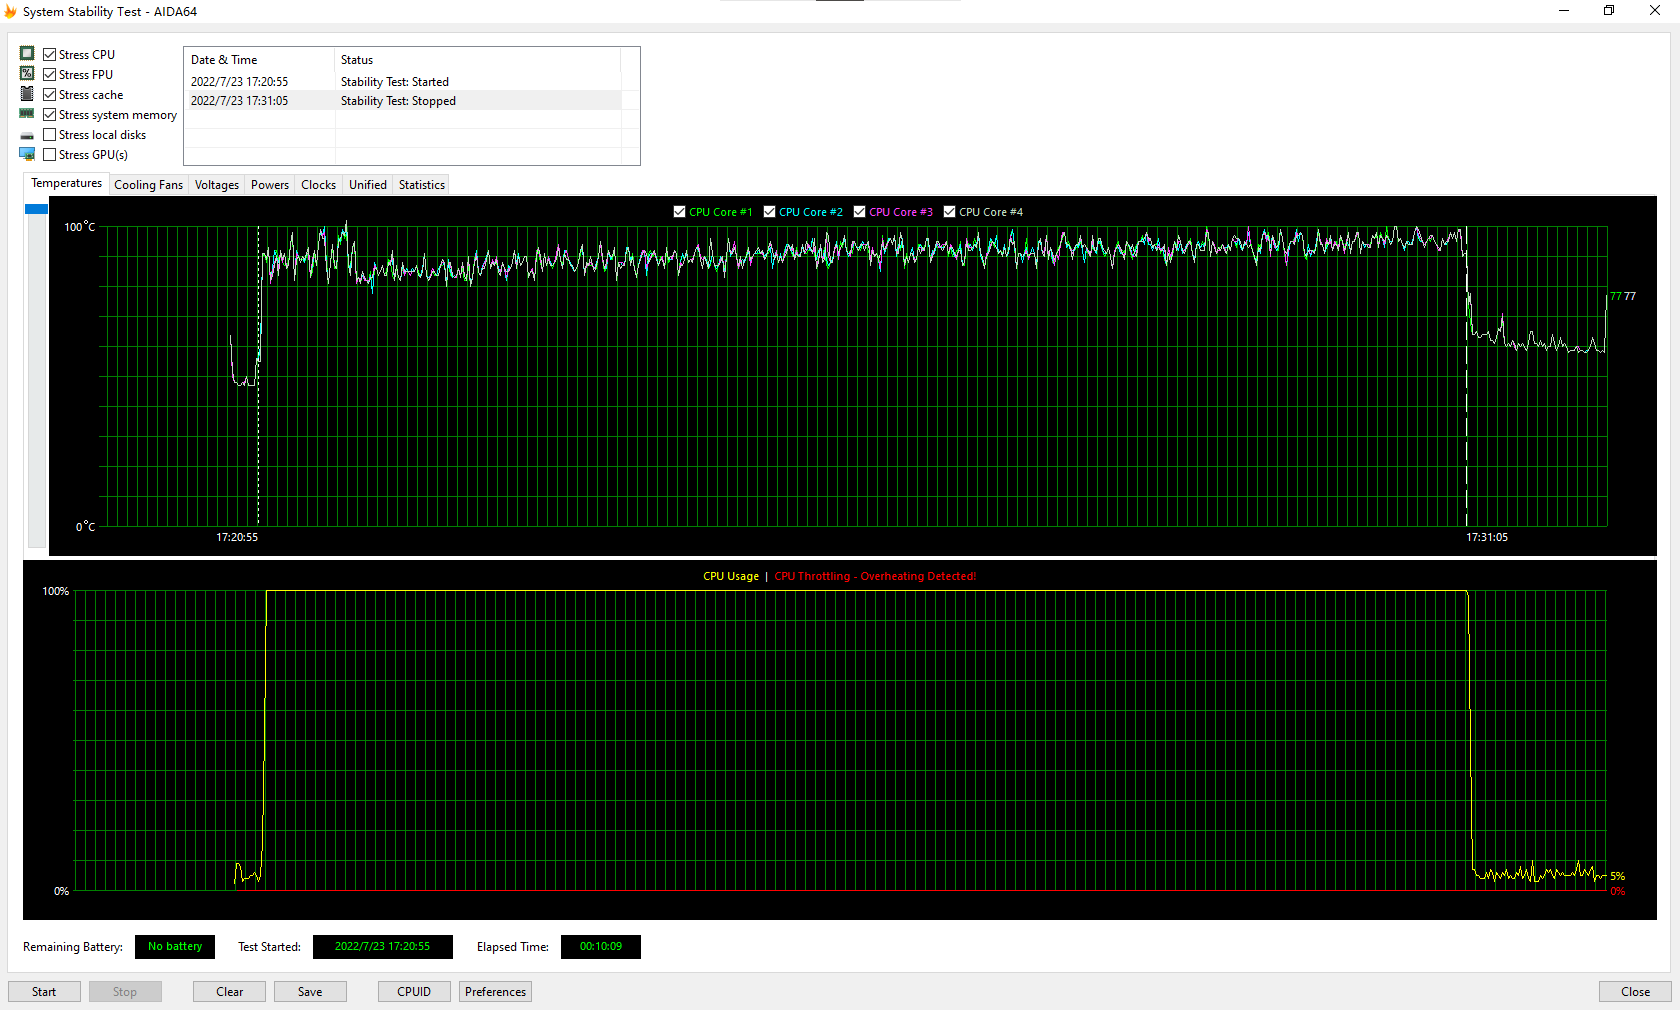
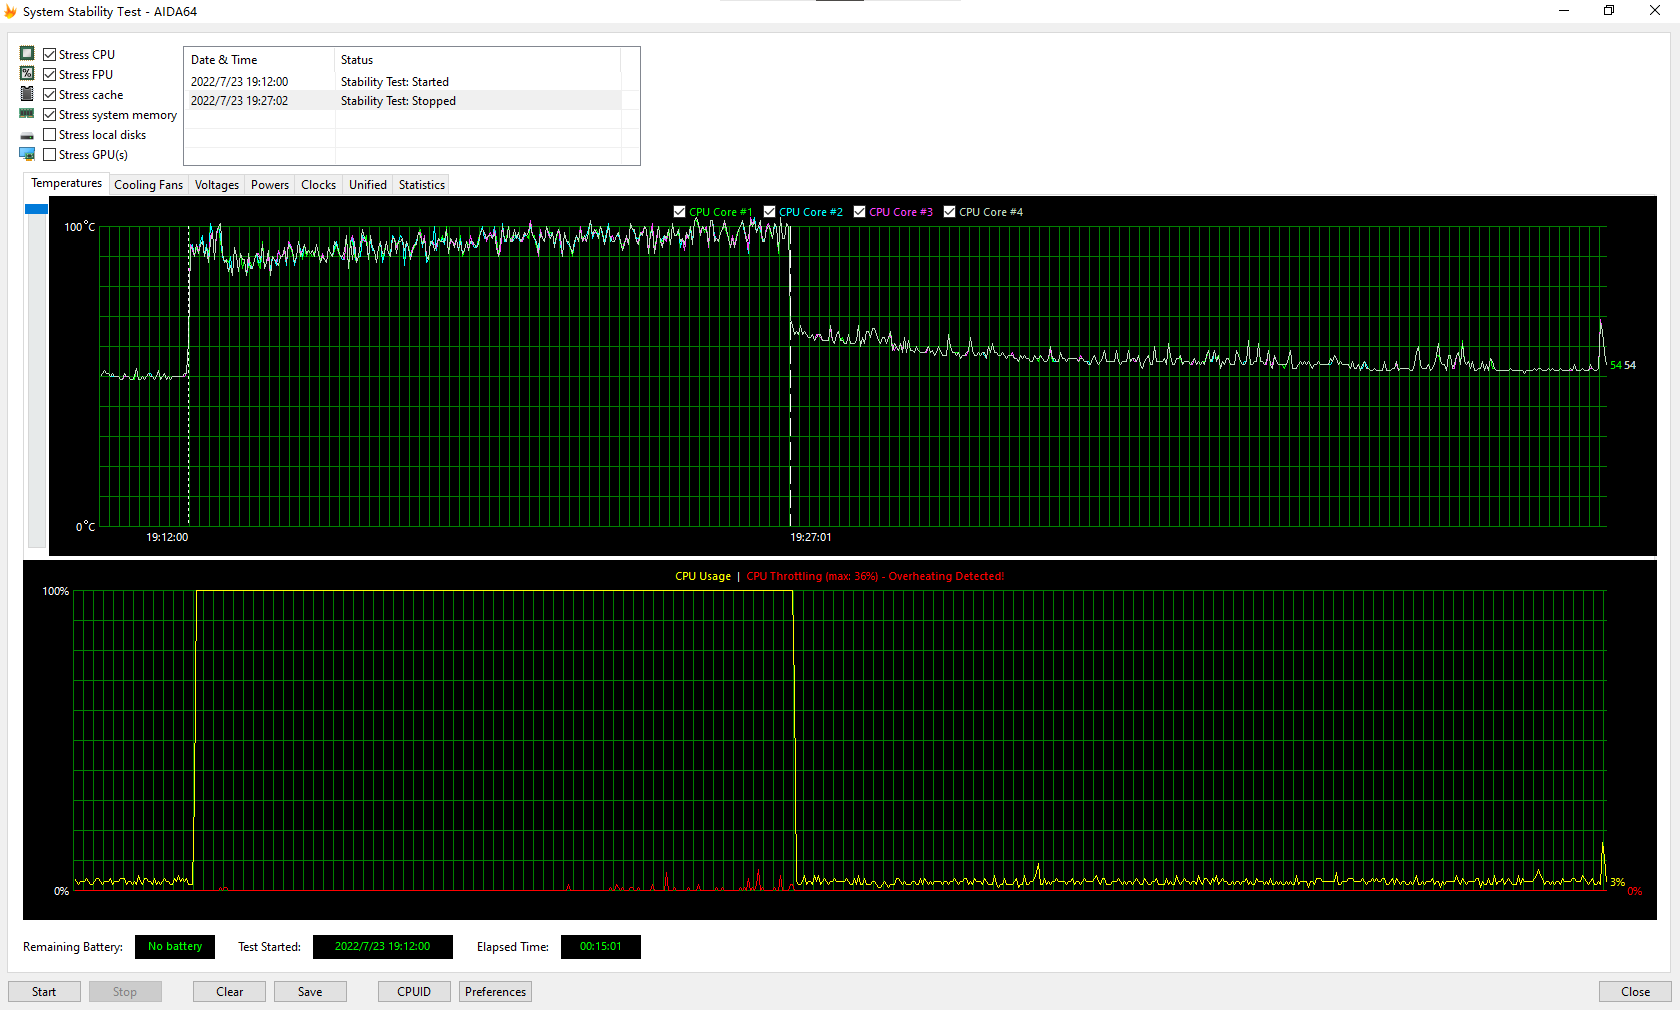
update stability chart for r86s

Changed region(s): [[0.031, 0.2149, 0.9905, 0.8901]]

diff --git a/_posts/2022-07-15-r86s-experience.md b/_posts/2022-07-15-r86s-experience.md
@@ -455,12 +455,12 @@ PL2 只有 30 秒，然后会降到 PL1 10w 左右，温度大概能维持在 80
 
 ![](../assets/images/r86s-experience/stability.png)
 
-烤鸡前 50 度，十分钟 CPU + FPU 最高 100 度，停止之后 60 度，然后还要几分钟时间才能降低回 50 度。总结一下
+烤鸡前 50 度，15 分钟 CPU + FPU 依然会偶尔过热，停止之后降到 60 度左右，然后需要很长时间才能再降回 50 度。总结一下：
 
-* 外壳的热容量比较有限，更重要的是外壳的散热速度跟不上发热速度
-* 目前来看众筹款外壳还是差点意思，有更高的要求还是需要新款外壳
+* 换个好点的硅脂效果还是挺明显的
+* 散热器的散热速度跟不上发热速度
 
-不过还是上次的结论：绝大多数情况下都没啥负载的用法下够用了。
+目前来看众筹款外壳还是差点意思，有更高的要求还是需要新款外壳。不过还是上次的结论：绝大多数情况下都没啥负载的用法下够用了。
 
 # Recommendations
 
